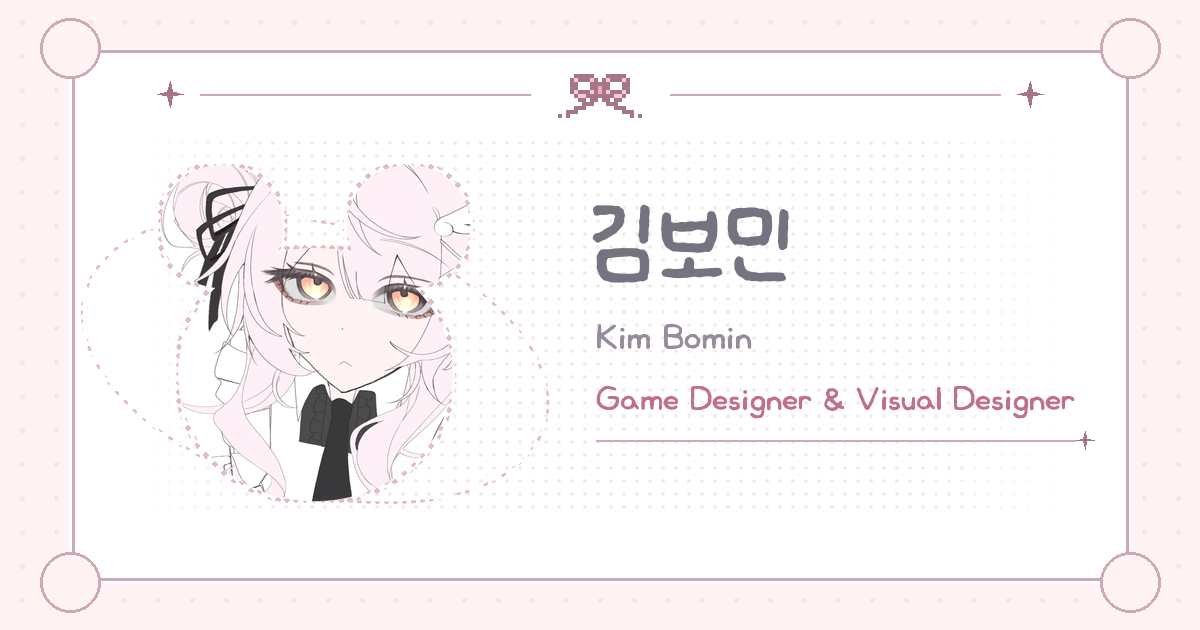
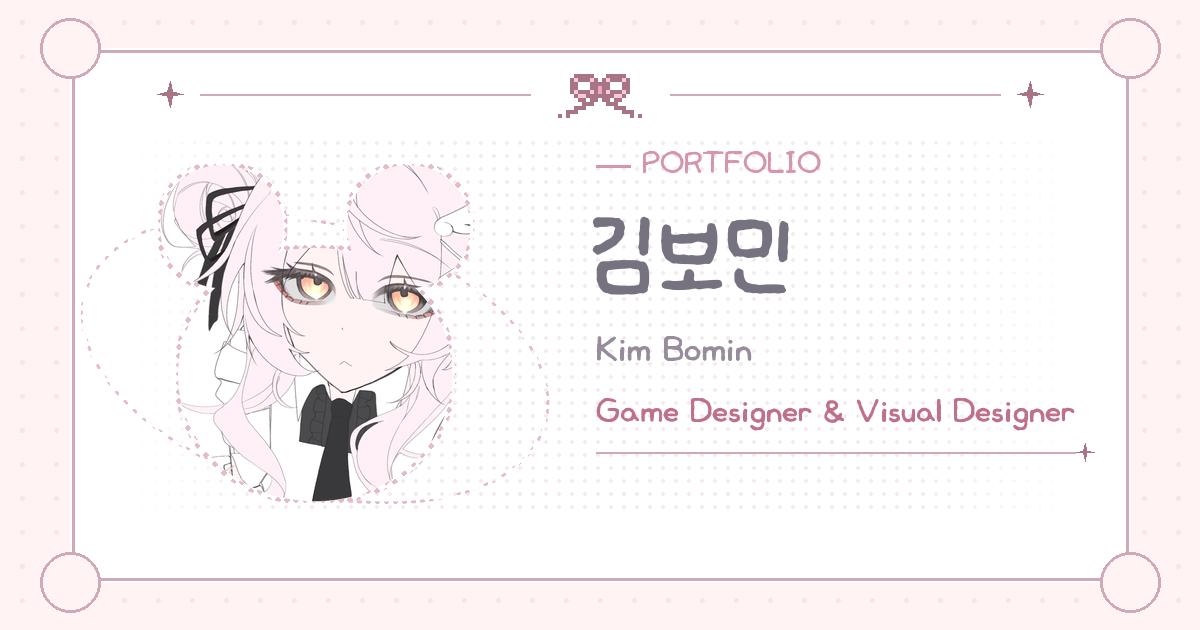
Link preview: add PORTFOLIO label, new page and share titles

diff --git a/index.html b/index.html
@@ -3,16 +3,16 @@
 <head>
   <meta charset="UTF-8" />
   <meta name="viewport" content="width=device-width, initial-scale=1.0" />
-  <title>김보민 | 기획자 & 디자이너</title>
-  <meta name="description" content="김보민의 포트폴리오 — 기획자, 디자이너. 아이디어를 구조화하고, 경험을 설계합니다." />
+  <title>김보민 | Game Designer & Visual Designer</title>
+  <meta name="description" content="김보민의 포트폴리오 — 게임 기획자 & 비주얼 디자이너. 아이디어를 구조화하고, 경험을 설계합니다." />
   <meta property="og:type" content="website" />
-  <meta property="og:title" content="김보민 | 기획자 & 디자이너" />
-  <meta property="og:description" content="아이디어를 구조화하고, 경험을 설계합니다." />
+  <meta property="og:title" content="김보민 | Game Designer & Visual Designer" />
+  <meta property="og:description" content="김보민의 포트폴리오 — 아이디어를 구조화하고, 경험을 설계합니다." />
   <meta property="og:url" content="https://kimbom0109.github.io/portfolio/" />
   <meta property="og:image" content="https://kimbom0109.github.io/portfolio/assets/og.png" />
   <meta property="og:image:width" content="1200" />
   <meta property="og:image:height" content="630" />
-  <meta property="og:image:alt" content="김보민 — Game Designer & Visual Designer" />
+  <meta property="og:image:alt" content="김보민 포트폴리오 — Game Designer & Visual Designer" />
   <meta name="twitter:card" content="summary_large_image" />
   <meta name="twitter:image" content="https://kimbom0109.github.io/portfolio/assets/og.png" />
   <meta name="theme-color" content="#FCE7E6" />
